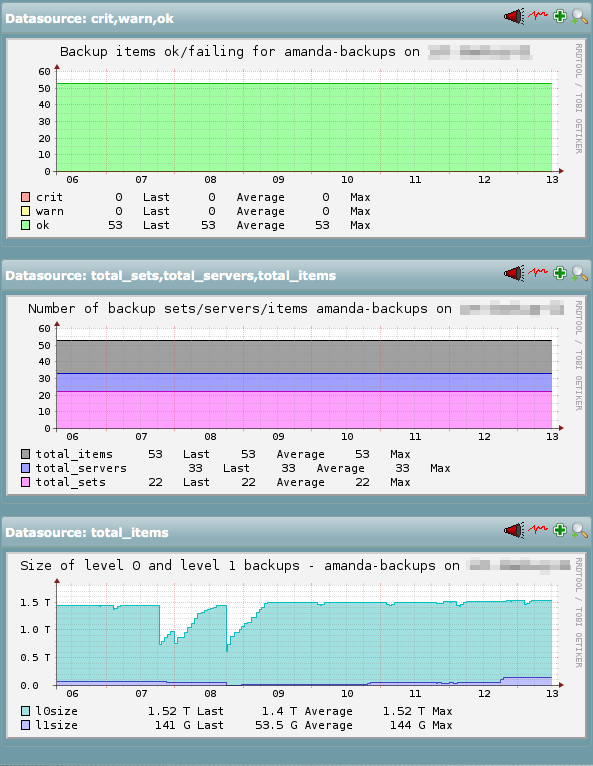
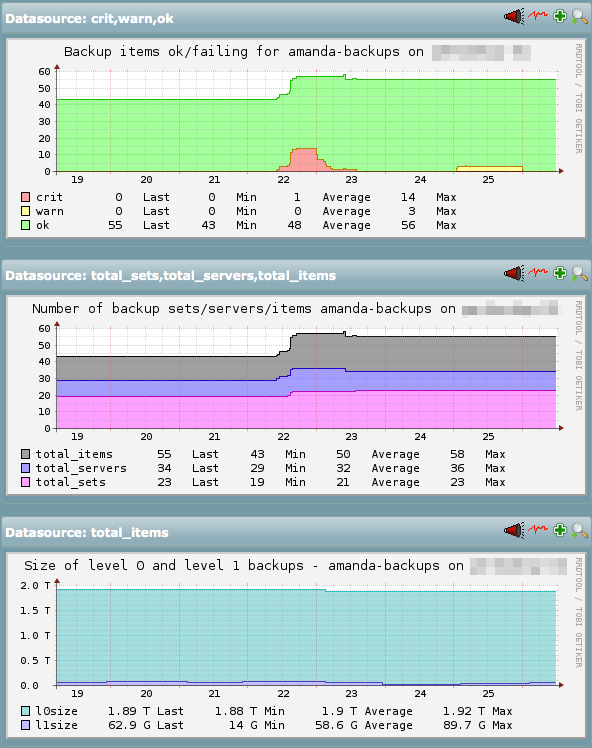
Use mtime to identify a backup-in-progress and avoid false alerts on backup-size when the new backup starts

diff --git a/check_amanda.php b/check_amanda.php
@@ -14,21 +14,21 @@ $ds_name[2]="$NAME[1],$NAME[2],$NAME[3]";
 
 # Critial
 $ds_ndx=6;
-$def[1]  .= rrd::def(   "$NAME[$ds_ndx]",  $RRDFILE[$ds_ndx],   $DS[$ds_ndx],     "MAX");
-$def[1]  .= rrd::area(  "$NAME[$ds_ndx]",  "#ffA0A0",                           $NAME[$ds_ndx]."\t");
-$def[1]  .= rrd::gprint("$NAME[$ds_ndx]",  array("LAST", "AVERAGE", "MAX"),     "%4.0lf  ");
+$def[1]  .= rrd::def(   "$NAME[$ds_ndx]",  $RRDFILE[$ds_ndx],   $DS[$ds_ndx],     "AVERAGE");
+$def[1]  .= rrd::area(  "$NAME[$ds_ndx]",  "#ffA0A0",                           sprintf('%-6s',$NAME[$ds_ndx]));
+$def[1]  .= rrd::gprint("$NAME[$ds_ndx]",  array("LAST", "MIN", "AVERAGE", "MAX"),     "%4.0lf  ");
 
 # Warning
 $ds_ndx=5;
-$def[1]  .= rrd::def(   "$NAME[$ds_ndx]",  $RRDFILE[$ds_ndx],   $DS[$ds_ndx],     "MAX");
-$def[1]  .= rrd::area(  "$NAME[$ds_ndx]",  "#ffffA0",                           $NAME[$ds_ndx]."\t", 'STACK');
-$def[1]  .= rrd::gprint("$NAME[$ds_ndx]",  array("LAST", "AVERAGE", "MAX"),     "%4.0lf  ");
+$def[1]  .= rrd::def(   "$NAME[$ds_ndx]",  $RRDFILE[$ds_ndx],   $DS[$ds_ndx],     "AVERAGE");
+$def[1]  .= rrd::area(  "$NAME[$ds_ndx]",  "#ffffA0",                           sprintf('%-6s',$NAME[$ds_ndx]), 'STACK');
+$def[1]  .= rrd::gprint("$NAME[$ds_ndx]",  array("LAST", "MIN", "AVERAGE", "MAX"),     "%4.0lf  ");
 
 # OK
 $ds_ndx=4;
-$def[1]  .= rrd::def(   "$NAME[$ds_ndx]",  $RRDFILE[$ds_ndx],   $DS[$ds_ndx],     "MAX");
-$def[1]  .= rrd::area(  "$NAME[$ds_ndx]",  "#A0ffA0",                           $NAME[$ds_ndx]."\t", 'STACK');
-$def[1]  .= rrd::gprint("$NAME[$ds_ndx]",  array("LAST", "AVERAGE", "MAX"),     "%4.0lf  ");
+$def[1]  .= rrd::def(   "$NAME[$ds_ndx]",  $RRDFILE[$ds_ndx],   $DS[$ds_ndx],     "AVERAGE");
+$def[1]  .= rrd::area(  "$NAME[$ds_ndx]",  "#A0ffA0",                           sprintf('%-6s',$NAME[$ds_ndx]), 'STACK');
+$def[1]  .= rrd::gprint("$NAME[$ds_ndx]",  array("LAST", "MIN", "AVERAGE", "MAX"),     "%4.0lf  ");
 
 
 # Same again, with a line for emphasis
@@ -49,21 +49,21 @@ $def[2] = '';
 
 # Draw the total_items first, this is the 'background'
 $ds_ndx=3;
-$def[2]  .= rrd::def(   "$NAME[$ds_ndx]",  $RRDFILE[$ds_ndx],   $DS[$ds_ndx],     "MAX");
-$def[2]  .= rrd::area(  "$NAME[$ds_ndx]",  "#A0A0A0",                           $NAME[$ds_ndx]."\t");
-$def[2]  .= rrd::gprint("$NAME[$ds_ndx]",  array("LAST", "AVERAGE", "MAX"),     "%4.0lf  ");
+$def[2]  .= rrd::def(   "$NAME[$ds_ndx]",  $RRDFILE[$ds_ndx],   $DS[$ds_ndx],     "AVERAGE");
+$def[2]  .= rrd::area(  "$NAME[$ds_ndx]",  "#A0A0A0",                           sprintf('%-13s',$NAME[$ds_ndx]));
+$def[2]  .= rrd::gprint("$NAME[$ds_ndx]",  array("LAST", "MIN", "AVERAGE", "MAX"),     "%4.0lf  ");
 
 # Draw the servers next (blue)
 $ds_ndx=2;
-$def[2]  .= rrd::def(   "$NAME[$ds_ndx]",  $RRDFILE[$ds_ndx],   $DS[$ds_ndx],     "MAX");
-$def[2]  .= rrd::area(  "$NAME[$ds_ndx]",  "#A0A0ff",                           $NAME[$ds_ndx]."\t");
-$def[2]  .= rrd::gprint("$NAME[$ds_ndx]",  array("LAST", "AVERAGE", "MAX"),     "%4.0lf  ");
+$def[2]  .= rrd::def(   "$NAME[$ds_ndx]",  $RRDFILE[$ds_ndx],   $DS[$ds_ndx],     "AVERAGE");
+$def[2]  .= rrd::area(  "$NAME[$ds_ndx]",  "#A0A0ff",                           sprintf('%-13s',$NAME[$ds_ndx]));
+$def[2]  .= rrd::gprint("$NAME[$ds_ndx]",  array("LAST", "MIN", "AVERAGE", "MAX"),     "%4.0lf  ");
 
 # Draw the backup sets (purple)
 $ds_ndx=1;
-$def[2]  .= rrd::def(   "$NAME[$ds_ndx]",  $RRDFILE[$ds_ndx],   $DS[$ds_ndx],     "MAX");
-$def[2]  .= rrd::area(  "$NAME[$ds_ndx]",  "#ffA0ff",                           $NAME[$ds_ndx]."\t");
-$def[2]  .= rrd::gprint("$NAME[$ds_ndx]",  array("LAST", "AVERAGE", "MAX"),     "%4.0lf  ");
+$def[2]  .= rrd::def(   "$NAME[$ds_ndx]",  $RRDFILE[$ds_ndx],   $DS[$ds_ndx],     "AVERAGE");
+$def[2]  .= rrd::area(  "$NAME[$ds_ndx]",  "#ffA0ff",                           sprintf('%-13s',$NAME[$ds_ndx]));
+$def[2]  .= rrd::gprint("$NAME[$ds_ndx]",  array("LAST", "MIN", "AVERAGE", "MAX"),     "%4.0lf  ");
 
 # Same again, with a line for emphasis
 $ds_ndx=3; # total_items
@@ -83,14 +83,14 @@ $def[3] = '';
 $ds_ndx=7;
 $def[3]  .= rrd::def(    "$NAME[$ds_ndx]",  $RRDFILE[$ds_ndx],   $DS[$ds_ndx],     "MAX");
 $def[3]  .= rrd::cdef(          'l0bytes',   "$NAME[$ds_ndx],1024,*");
-$def[3]  .= rrd::area(          'l0bytes',  "#A0E0E0",                           $NAME[$ds_ndx]."\t");
-$def[3]  .= rrd::gprint(        'l0bytes',  array("LAST", "AVERAGE", "MAX"),     "%6.3lg %s");
+$def[3]  .= rrd::area(          'l0bytes',  "#A0E0E0",                           $NAME[$ds_ndx]);
+$def[3]  .= rrd::gprint(        'l0bytes',  array("LAST", "MIN", "AVERAGE", "MAX"),     "%6.3lg %s");
 
 $ds_ndx=8;
 $def[3]  .= rrd::def(    "$NAME[$ds_ndx]",  $RRDFILE[$ds_ndx],   $DS[$ds_ndx],     "MAX");
 $def[3]  .= rrd::cdef(          'l1bytes',   "$NAME[$ds_ndx],1024,*");
-$def[3]  .= rrd::area(          'l1bytes',  "#C0C0ff",                           $NAME[$ds_ndx]."\t");
-$def[3]  .= rrd::gprint(        'l1bytes',  array("LAST", "AVERAGE", "MAX"),     "%6.3lg %s");
+$def[3]  .= rrd::area(          'l1bytes',  "#C0C0ff",                           $NAME[$ds_ndx]);
+$def[3]  .= rrd::gprint(        'l1bytes',  array("LAST", "MIN", "AVERAGE", "MAX"),     "%6.3lg %s");
 
 # Same again, with a line for emphasis
 $ds_ndx=7; # l0size

diff --git a/README.md b/README.md
@@ -171,14 +171,15 @@ A backup with a file-size of zero (after subtracting the header) is considered a
 
 Other than checking size and date, no further integrity checking is done.
 ie. this plugin will not detect corrupted or truncated backups.
-Although this would be feasible, such a check would not likely complete in under 60s.
+Although this would be feasible, such a check would not be likely complete in under 60s.
 
 This plugin will normally be used with NRPE. The default timeout for check_nrpe is 10 seconds. Increase this to at least 60 seconds to avoid 'false criticals' due to the plugin taking a long time to go through the whole tree of backup items on the backup-media disk.
 
 The plugin reads the 1st line of each backup item.
 
-This plugin does not distinguish between a backup-in-progress and a completed-backup. 
-ie. the total size reported may include backups-in-progress, and be lower than it should be until all backups are completed.
+This plugin distinguishs between a backup-in-progress and a completed-backup by using the time-stamp on the file.
+Any backup file modified in the last 30 seconds is considered 'in-progress' and is excluded from the check results.
+The next-oldest file is used instead.
 
 ### Sample config
 
@@ -223,9 +224,23 @@ A PNP4Nagios template is supplied.
 
 ![Sample pnp4nagios graphs](check_amanda.pnp4nagios.png)
 
-In the sample graph, there is a sharp drop in the `l0size` graph on the 7th and 8th.
-This is the full-backup of a large backup starting, and then growing until it is complete.
+In the sample graph, there are a number of failing checks on the 22nd of the month.
+This is due to new backups being added, and not having been backed up yet.
 
-There is no corresponding alert, because this plugin does not check the validity of the backup files, just that they exist and are recent.
+This shows on the output as 
+```
+CRITICAL: 14 critical in internal-servers (never), 43 ok in 19 backup sets, size 1785Gi +75Gi
+```
+Running a manual backup will clear this alert, once the backup is complete.
 
 The l0size and l1size statistics are useful for estimating what retention is feasible.
+
+The l0size and l1size give a simple answer to the question:
+* Q. How much disk space do I need to store 4 weeks of full weekly backups and their daily incremental backups?
+* A. 4 * l0size + 24 * l1size = 1.92T * 4 + 89.7G * 24 = 9.8 TB
+
+Note that the plugin is reporting 1785 GiB (gibi bytes, ie 1024^3), while rrdtool is reporting 1917 GB (giga bytes, ie 10^9)
+
+l0size and l1size are also useful for observing trends in the size of a complete backup of all servers.
+Simple disk-usage statistics are difficult to interpret, because they do not show how many complete backups are present at any time.
+
